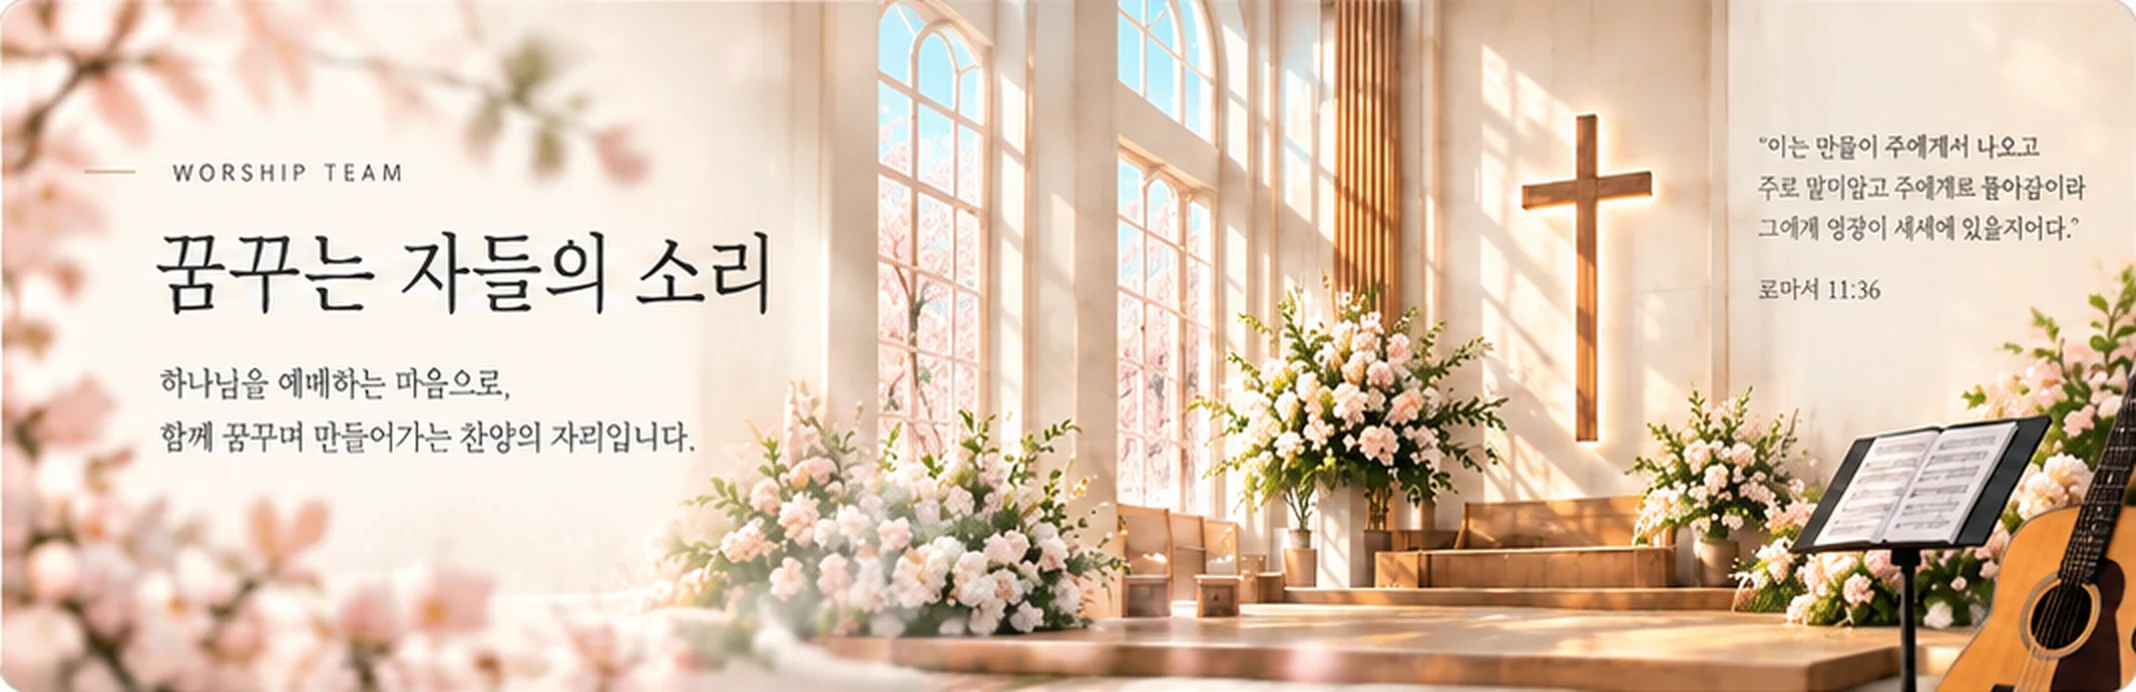
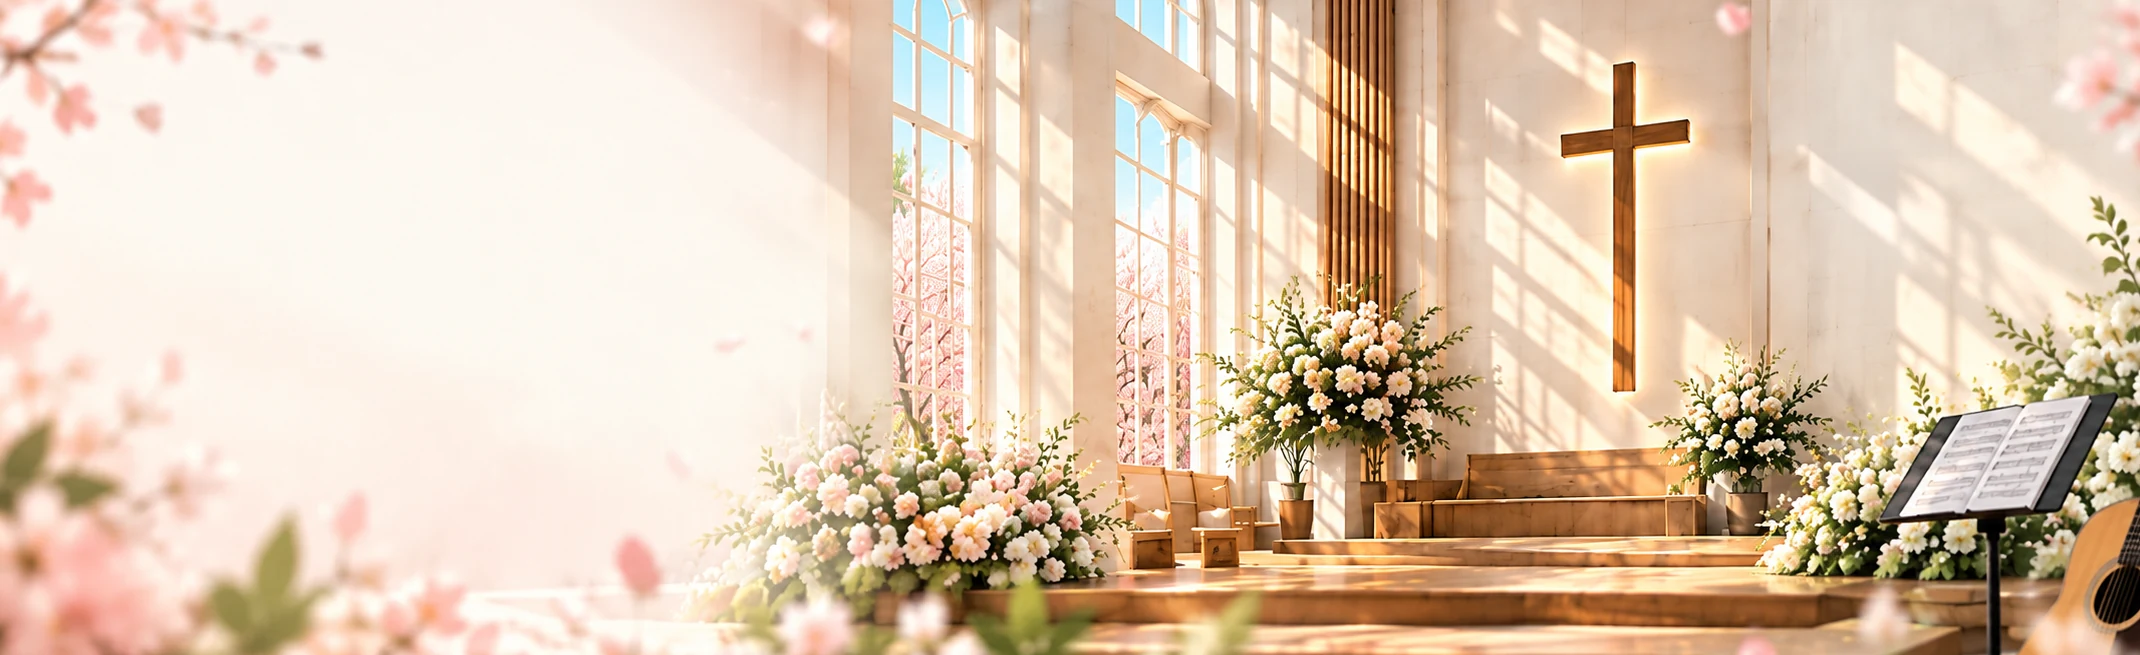
계절 배너 4장 교체: 글자 없는 이미지 + 화면 글씨로 선명하게
- 봄·여름·가을·겨울 새 배너(글자 없음)로 교체, 모서리 흰 테두리 잘라냄
- 제목·소개·말씀 구절을 이미지가 아닌 화면 글씨로 얹음 (깨짐 없음, 크기에 맞춰 조절)
- 좁은 화면에서는 오른쪽 말씀 상자 숨김

Claude-Session: https://claude.ai/code/session_01KRsGXJnCyzC6U7HeMFVvHi

diff --git a/index.html b/index.html
@@ -4484,10 +4484,10 @@ window.kzLoginBar=function(on){const m=document.querySelector('meta[name=theme-c
  document.documentElement.dataset.season=kzSeason();})();
 </script>
 <style id="kz-season-css">
-:root[data-season=spring] #body .church-hero-main.church-banner-v15{background-image:url(assets/banner-spring.webp)!important}
-:root[data-season=summer] #body .church-hero-main.church-banner-v15{background-image:url(assets/banner-summer.webp)!important}
-:root[data-season=autumn] #body .church-hero-main.church-banner-v15{background-image:url(assets/banner-autumn.webp)!important}
-:root[data-season=winter] #body .church-hero-main.church-banner-v15{background-image:url(assets/banner-winter.webp)!important}
+:root[data-season=spring] #body .church-hero-main.church-banner-v15{background-image:url(assets/banner-spring.webp?v=2)!important}
+:root[data-season=summer] #body .church-hero-main.church-banner-v15{background-image:url(assets/banner-summer.webp?v=2)!important}
+:root[data-season=autumn] #body .church-hero-main.church-banner-v15{background-image:url(assets/banner-autumn.webp?v=2)!important}
+:root[data-season=winter] #body .church-hero-main.church-banner-v15{background-image:url(assets/banner-winter.webp?v=2)!important}
 :root[data-season=spring] .lx .lx-art{background-image:url(assets/login-bg-spring-m.webp)!important}
 :root[data-season=summer] .lx .lx-art{background-image:url(assets/login-bg-summer-m.webp)!important}
 :root[data-season=autumn] .lx .lx-art{background-image:url(assets/login-bg-autumn-m.webp)!important}
@@ -5014,7 +5014,7 @@ function homeView(){const LN=ldrOf(date),lc=ldrCls(LN),pub=!!data.up,sc=pub?(dat
 const songs=scoreSongs(data.scores||[]).slice(0,5);const songCards=Array.from({length:5},(_,i)=>{const x=songs[i];if(!x)return `<div class="song-mini song-placeholder"><div class="song-art"><span>${V13I('music')}</span></div><b>${i+1}. 곡 준비 중</b><small>송폼 업로드 후 표시</small></div>${i<4?'<span class="song-arrow">›</span>':''}`;const aid=x.aid||x.oaid;return `<button class="song-mini song-ready" data-home-score="${(data.scores||[]).indexOf(x)}"><div class="song-art">${aid?`<img src="${BLOB(aid)}" alt="" loading="lazy" data-ids="${aid}|${x.oaid&&x.oaid!==aid?x.oaid:''}" onerror="kzImgFb(this)"><span class="song-fb">${V13I('music')}</span>`:V13I('music')}</div><b>${i+1}. ${esc(x.name||`예배곡 ${i+1}`)}</b><small>${aid?'송폼 보기':'송폼 준비 중'}</small></button>${i<4?'<span class="song-arrow">›</span>':''}`}).join('');
 const mentLines=ment?ment.split(/\r?\n/).map(v=>v.trim()).filter(Boolean):[];const contiPreview=ment?`<div class="weekly-conti"><div class="weekly-conti-head"><span class="conti-ico">${V13I('archive')}</span><div><b>이번 주 콘티</b><small>${data.by?esc(data.by)+' 작성':'인도자 공유 내용'}</small></div><span class="sp"></span><button class="ghost-link" data-conti-open="1">전체 보기 ›</button></div>${(()=>{const songsL=kzSongs(mentLines),sgL=(mentLines.find(v=>/^싱어\s*[:：]/.test(v))||'').replace(/^싱어\s*[:：]\s*/,''),roleL=mentLines.filter(v=>!/^::/.test(v)&&!/^싱어\s*[:：]/.test(v)&&!/^https?:\/\//i.test(v)&&!/^www\./i.test(v)&&/^[^:：\d]{1,6}\s*[:：]\s*\S/.test(v)).map(v=>{const i=v.search(/[:：]/);return[v.slice(0,i).trim(),v.slice(i+1).trim()]});if(!songsL.length&&!roleL.length&&!sgL)return `<div class="weekly-conti-body">${mentLines.slice(0,7).map(v=>`<span>${esc(v)}</span>`).join('')}${mentLines.length>7?'<em>…</em>':''}</div>`;return `<div class="kz-cs">${songsL.length?`<div class="kz-cs-row"><span class="kz-cs-k">곡 순서</span><div class="kz-cs-v">${songsL.map(x=>`<span class="kz-song">${esc(x.t)}${x.links.map((u,k)=>`<a class="kz-yt" href="${esc(u)}" target="_blank" rel="noopener noreferrer" title="레퍼런스 열기${x.links.length>1?' '+(k+1):''}" onclick="event.stopPropagation()">${kzYtIco}${x.links.length>1?k+1:''}</a>`).join('')}</span>`).join('')}</div></div>`:''}${(()=>{const ld=roleL.filter(([k])=>/^인도/.test(k)),ss=roleL.filter(([k])=>!/^인도/.test(k));return (ld.length?`<div class="kz-cs-row"><span class="kz-cs-k">인도</span><div class="kz-cs-v"><span class="kz-song">${ld.map(([k,v])=>esc(v)).join(', ')}</span></div></div>`:'')+(ss.length?`<div class="kz-cs-row kz-cs-sess"><span class="kz-cs-k">세션</span><div class="kz-cs-v">${ss.map(([k,v])=>`<span class="kz-role"><i>${esc(k)}</i>${esc(v)}</span>`).join('')}</div></div>`:'')})()}${sgL?`<div class="kz-cs-row"><span class="kz-cs-k">싱어</span><div class="kz-cs-v"><span class="kz-role">${esc(sgL)}</span></div></div>`:''}</div>`})()}</div>`:`<div class="weekly-conti weekly-conti-empty"><span class="conti-ico">${V13I('archive')}</span><div><b>이번 주 콘티를 준비하고 있어요</b><small>인도자가 콘티를 게시하면 곡 순서와 참여 멤버가 여기에 보여요</small></div></div>`;
 $('#body').innerHTML=`<div class="hm hm-v13">
-<div class="church-hero"><section class="church-hero-main church-banner-v15" aria-label="꿈꾸는 자들의 소리"></section><aside class="verse-card"><blockquote>“이는 만물이 주에게서 나오고<br>주로 말미암고 주에게로 돌아감이라<br>그에게 영광이 세세에 있을지어다.”</blockquote><cite>로마서 11:36</cite></aside></div>
+<div class="church-hero"><section class="church-hero-main church-banner-v15" aria-label="꿈꾸는 자들의 소리"><div class="kz-ban-tx" aria-hidden="true"><div class="kz-ban-l"><span class="kz-ban-k">WORSHIP TEAM</span><b>꿈꾸는 자들의 소리</b><p>하나님을 예배하는 마음으로,<br>함께 꿈꾸며 만들어가는 찬양의 자리입니다.</p></div><div class="kz-ban-r"><q>이는 만물이 주에게서 나오고<br>주로 말미암고 주에게로 돌아감이라<br>그에게 영광이 세세에 있을지어다.</q><cite>로마서 11:36</cite></div></div></section><aside class="verse-card"><blockquote>“이는 만물이 주에게서 나오고<br>주로 말미암고 주에게로 돌아감이라<br>그에게 영광이 세세에 있을지어다.”</blockquote><cite>로마서 11:36</cite></aside></div>
 ${kzTop(dt,pub,ment)}
 <div class="home-grid-mid kz-mid"><div class="kh-left-stack">${kzNextCard()}${kzFeedCard()}</div><div class="kz-stack kz-info-stack">${kzNoticeCard()}${homeSongCard()}</div><section class="devotion-card kz-dev"><img class="kz-dev-image" src="assets/devotion.66155b40.webp" alt="우리의 목소리가 모여 하나의 찬양이 됩니다. 꿈꾸는 자들의 소리, 오늘도 예배를 준비합니다."></section></div>
 <div class="shortcut-grid"><button class="shortcut-card" data-short="edit">${V13I('leader')}<b>인도자 작업실</b><span>송폼 작성과 콘티를 한 곳에서</span><em>›</em></button><button class="shortcut-card" data-short="archive">${V13I('archive')}<b>콘티 보관함</b><span>지금까지의 예배 콘티를 보관하고 관리해요</span><em>›</em></button><button class="shortcut-card" data-short="library">${V13I('music')}<b>악보 모음집</b><span>필요한 악보를 쉽게 검색하고 관리해요</span><em>›</em></button><button class="shortcut-card" data-role-short="singer">${V13I('mic')}<b>싱어</b><span>멤버 관리와 일정을 확인해요</span><em>›</em></button><button class="shortcut-card" data-role-short="session">${V13I('guitar')}<b>세션</b><span>포지션별 멤버와 일정을 확인해요</span><em>›</em></button></div>
@@ -8761,6 +8761,19 @@ function pickImages(fn){const i=document.createElement('input');i.type='file';i.
 :root[data-season] body{background-color:var(--bz3)!important}
 :root[data-season=spring]{--bg:#faf1f2}:root[data-season=summer]{--bg:#f1f6eb}:root[data-season=autumn]{--bg:#f9f0e4}:root[data-season=winter]{--bg:#eff3f7}
 :root[data-season] #top{background:color-mix(in srgb,var(--bz3) 82%,transparent)!important}
+/* 배너 글씨: 글자 없는 배너 이미지(봄·여름·가을·겨울 모두)에 화면 글씨로 얹음 → 어떤 크기에서도 선명 */
+.kz-ban-tx{display:none}
+:root[data-season] .hm .church-hero-main .kz-ban-tx{display:flex;position:absolute;inset:0;justify-content:space-between;align-items:stretch;padding:0 2.6% 0 6.5%;pointer-events:none;container-type:inline-size}
+.kz-ban-l{display:flex;flex-direction:column;justify-content:center;gap:1.1cqw;max-width:48%}
+.kz-ban-k{font-size:clamp(9px,1cqw,14px);letter-spacing:.32em;font-weight:600;color:#6b5646;display:flex;align-items:center;gap:1.2cqw}
+.kz-ban-k::before{content:"";width:3cqw;height:1px;background:#8a7262}
+.kz-ban-l b{font-family:var(--serif);font-size:clamp(20px,3.6cqw,52px);font-weight:600;line-height:1.15;color:#2e221a;letter-spacing:-.01em;text-shadow:0 0 18px rgba(255,250,246,.9)}
+.kz-ban-l p{margin:.6cqw 0 0;font-size:clamp(11px,1.35cqw,19px);line-height:1.7;color:#4a3a2f;text-shadow:0 0 12px rgba(255,250,246,.95)}
+:root[data-season=winter] .kz-ban-l b{color:#22303f}:root[data-season=winter] .kz-ban-l p,:root[data-season=winter] .kz-ban-r{color:#34465a}:root[data-season=winter] .kz-ban-k{color:#4f6378}
+.kz-ban-r{align-self:flex-start;margin-top:5.5%;text-align:left;font-size:clamp(9px,1.05cqw,15px);line-height:1.75;color:#3d2f25;text-shadow:0 0 10px rgba(255,252,248,.95);background:rgba(255,252,248,.35);padding:.9cqw 1.3cqw;border-radius:10px}
+.kz-ban-r q{quotes:"“" "”";display:block}.kz-ban-r cite{display:block;margin-top:.8cqw;font-style:normal;opacity:.8}
+@container (max-width:1000px){.kz-ban-r{display:none}}
+@media (max-width:700px){.kz-ban-r{display:none}.kz-ban-l{max-width:70%}}
 /* 배경 무늬·번짐 오버레이 없애고 단색으로 (눈 피로) */
 html:root body,html:root[data-season] body{background-image:none!important;background-attachment:scroll!important}
 /* 2) 상단 배너: 이미지 비율(2136×694)대로 보여서 좌우로 늘어나지 않게 */
